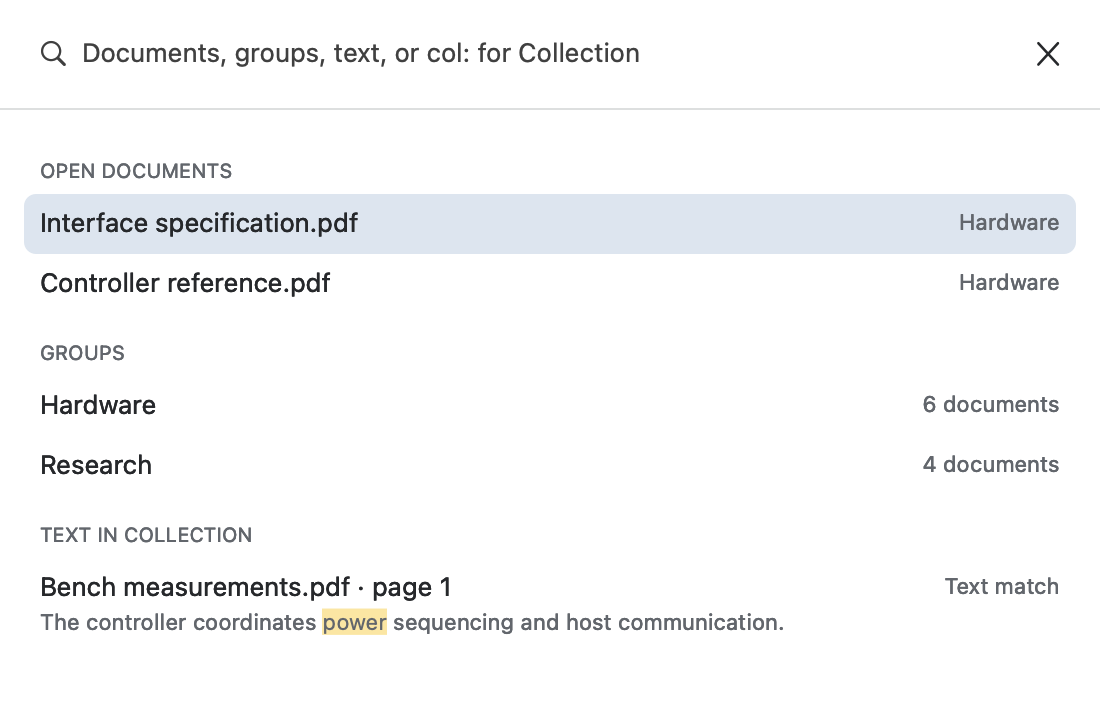
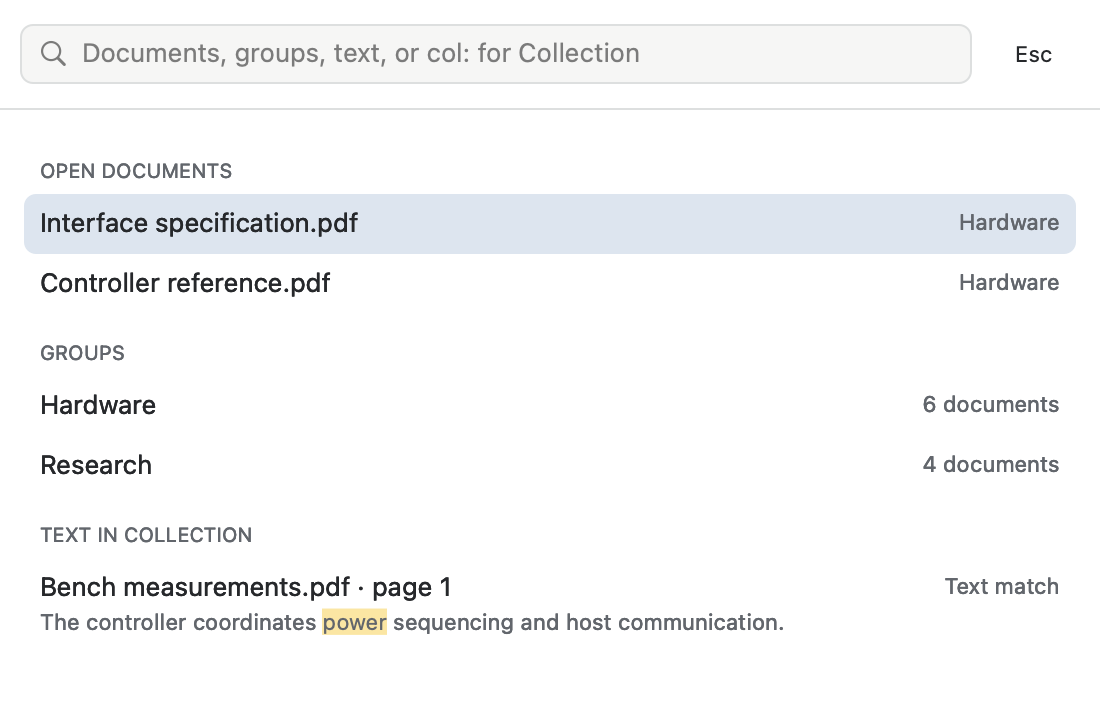
Document ranked native UI critic loops and accepted visual evidence

Changed region(s): [[0.0309, 0.0306, 0.5873, 0.0917], [0.9273, 0.0611, 0.9582, 0.0917]]

diff --git a/portable/docs/proposals/mac-workspace-rethink/critic-loop-ux.md b/portable/docs/proposals/mac-workspace-rethink/critic-loop-ux.md
@@ -1,0 +1,43 @@
+# Native workspace UX critic
+
+## Loop 1 — 1 October 2026
+
+**UX: 7.8/10. Not accepted against the requested >9/10 threshold.**
+
+This independent review uses the interface-design, macOS design guidelines and Rams review criteria. Evidence is the production-view offscreen PNGs in this directory, the approved `reader-workspace.fragment.html`, and the native layout/interaction code. No running user application was launched, quit or captured. Static visual/source review cannot establish a full VoiceOver or live updater result.
+
+The approved intent is a compact reader for many grouped technical documents. The document remains primary; stable tab geometry, direct tools and one restrained navigation panel support it. The native implementation has the broad structure, sensible compact targets, persistent mode identifiers and accessible icon labels. It does not yet reproduce the sidebar's typography, list rhythm or clarity of actions closely enough.
+
+### Ranked improvements
+
+| Rank | Severity | Finding and evidence | Required correction / acceptance evidence |
+|---|---|---|---|
+| 1 | Medium | Filename can omit its extension despite the probe fixture showing one. `SPDFMacWorkspaceChrome.mm` currently prefers `selectedTab.title` to `path.lastPathComponent`. A user-facing title need not be a filename. | Resolve the displayed filename from the document's source identity, including archived previews. Test an extensionless custom title with a real `.pdf` path and an archived temporary payload whose original display filename ends in `.md`. Keep full text available to accessibility and hover help. |
+| 2 | Medium | Collection's Apply is at the bottom after Location (`SPDFMacCollectionWindowSettings.mm`). It changes storage cap only but visually appears to submit all settings. The distance obscures pending changes and violates the user's explicit placement request. | Put Apply and its pending/applied feedback immediately below the storage-cap input, inside the Storage section. Location remains independent. Verify at the smallest supported settings size with custom limit, unlimited and pending changes. |
+| 3 | Medium | The native chapter list feels like an unchanged source list: 13-point text in ~25-point rows, no trailing page numbers, edge-to-edge system selection; the prototype uses 12-point text, 32-point rows, an inset rounded muted selection and trailing page numbers. See `native-reader-light-560.png` and `lean-tabs-sidebar-icons.png`. | Match that list grammar while retaining real nested disclosure, comment wrapping and chapter state. Render selected and unselected chapters, deeply nested outline, long titles and PDF page numbers. Do not fake page numbers for Markdown if unavailable. |
+| 4 | Medium | Sidebar and reading controls are visually smaller and less consistent than the mockup. Sidebar icons are explicitly rendered14×14 with13-point symbol configuration; prototype icons are16×16 inside28-point targets. Toolbar symbols rely on heterogeneous existing defaults. | Use a consistent16-point optical icon system within existing28-point targets, preserve clear enabled/disabled contrast, and keep the Groups divider. Inspect both appearances and the full document-tool row rather than only target rectangles. |
+| 5 | Medium | At560 points, two permanently reserved side columns leave only~235 points of reading width and fit-width at39%. The left panel/table, direct toolbar and real map technically fit, but the reading task becomes a sliver. | Provide an explicit responsive strategy consistent with the prototype's overlay sidebar, without changing saved visibility, map rendering or reading positions. At minimum demonstrate narrow reading with each panel toggled and avoid simultaneous sidebar/map domination; no silent permanent preference changes. |
+| 6 | Minor | Native footer repeats page position on both ends (“Page1 of3 · Zoom155%” and “Page1/3”) whereas the prototype puts source/protection state at left and page position at right. | Remove redundant page text in the left status, retain useful zoom/source information, and surface meaningful Collection protection only when accurate. |
+| 7 | Minor | Native Find results have a heavier, cramped hierarchy than the quiet prototype. This is visible in `native-reader-light-find.png`; repeated bold snippets dominate the metadata and chapter group labels. | Keep actual matching spans emphasized, quiet the rest, align item insets with chapters and use a clear selected result. Preserve multiline comment/search behavior. |
+
+### What already works
+
+- Compact selected tabs, visible group labels and a continuous accent underline form a understandable hierarchy.
+- The group control is separate from document tools. Direct tooltips and accessibility names exist.
+- Top-level panel/reader/map headers align. Real map content is retained; its thumbnail geometry is not scored against the nonfunctional mockup.
+- Collection's document row composition and command search's compact sectioned result hierarchy are substantially closer to the prototype than the chapter list.
+- File rendering, PDF page margins, source content, map thumbnail rendering and the user's chosen document zoom are outside this visual-fidelity score. The prototype's fake paper should not replace those systems.
+
+### Required next loop
+
+Supply fresh native offscreen evidence for a regular reader, selected/nested chapters, narrow reader, Find, Collection Settings with pending storage change, and extensionless-title/original-filename cases. Regrade only changes actually visible or behavior asserted; do not count source-test success alone as improved visual quality. This score does not certify updater safety, which requires the separate release/updater regression suite.
+
+## Read-only implementation notes — responsive panels and filenames
+
+The current reader has no responsive panel collapse: it clamps sidebar width to34% of the window (176-point minimum;216 with search), while the map independently retains its width. At560 points this combines two valid panels into an unusably narrow document area.
+
+The smallest safe alternative to reparenting the sidebar as an overlay is a transient compact-panel priority. Calculate effective reading width after requested panels. If it falls below320 points, show the currently requested navigation panel and temporarily suppress the other. Default to the sidebar because that is where the active navigation/search task occurs. Explicit Show Map gives map priority; Show Sidebar, Find, Groups or History gives sidebar priority. When sufficient space returns, restore both user-requested panels. These are effective layout decisions only; do not change persisted visibility, panel widths, group/document identity or reading positions. The Show Map action must inspect actual visibility: its current implementation toggles preferred visibility, so a map hidden only by layout would otherwise require two clicks to reveal.
+
+Before adding that rule, stop overwriting preferred width during resizing. `restoreSidebarWidth` currently writes its clamped result back to `_sidebarWidth`; `savePersistentState` clamps again using the current window. Keep a local effective width in restoration and sanitize the stored preference independently of current viewport size. Guard temporary panel suppression from the existing sidebar-width persistence path. Explicit divider drags may continue to change the preferred width.
+
+Collection has sufficient filename metadata already. Captured versions contain `filename` (original basename including extension); the document contains `title` and `path` (updated when relinked). Materialized copies are named after `version.filename`, under per-document/per-version directories. The tab's `title`, by contrast, can be changed into an archival status string with the extension removed. The sidebar should use the live path basename, or archived version filename obtained from the already-cached version-info dictionary. Do not instantiate or load Collection from a generic toolbar refresh solely to obtain the display filename. Date/status remain in the version pill, not in the filename.

diff --git a/portable/docs/proposals/mac-workspace-rethink/critic-loop-similarity.md b/portable/docs/proposals/mac-workspace-rethink/critic-loop-similarity.md
@@ -1,0 +1,45 @@
+# Native/prototype similarity review
+
+Independent critic: similarity review, 1 October 2026. This is a visual judgment, not a test pass count. The approved reference is the latest effective CSS and markup in `reader-workspace.fragment.html`, supported by `evidence/lean-tabs-sidebar-icons.png`, `stable-tab-title-fade.png`, and the Collection reference. Obsolete double-panel and oversized-tab designs are excluded.
+
+## Loop 1 — baseline: 7.7/10 overall similarity
+
+**Reader/sidebar: 7.4/10. Tabs/titlebar: 9.0/10. Collection browse: 8.9/10. Command palette: 8.9/10.** The result does not meet the requested >9/10 bar. The native composition moved in the right direction, but the sidebar still visibly belongs to the old app. Reader/sidebar is weighted most heavily because it is the persistent interface.
+
+Actual offscreen AppKit images reviewed: native reader light/dark at1280, narrow560, Find, Markdown; Collection light/dark; command palette light/dark. These were opened as images rather than inferred from code. Native command images are2× raster scale for a550-point palette; apparent raw-image text size is not a defect.
+
+### Ranked improvements
+
+1. **Major — bring sidebar content into the approved visual system.** Native chapter text is13pt in25pt rows, versus12px in32px rows in the final prototype. It appears larger/heavier and more cramped. Native selection is a square, full-width gray band in the narrow image; prototype selection is an inset rounded blue row. Native sidebar has no right-aligned page numbers and no outline summary at its foot. Use12pt regular titles, the approved row rhythm, inset rounded selected/hover surfaces and trailing page metadata. Preserve actual heading text and nesting; do not invent numeric prefixes that are absent from the document. Restore a quiet outline-count footer.
+2. **Medium — restyle the Find result hierarchy.** Native results retain the old group-pill/line decoration, medium-weight snippet above metadata, and bold-only search matches. The reference has small page/chapter metadata above normal-weight context with a yellow match highlight. Reuse the actual search data and navigation; change presentation only. This is visible in `native-reader-light-find.png` against the panel implementation in the reference.
+3. **Medium — fix the sidebar document identity in real data, not just fixtures.** Probe images show extensions, yet `syncWorkspaceChrome` takes `selectedTab.title` ahead of the path filename. A prettified title can therefore omit the extension. Prefer actual source/display filename with extension, including collected documents. Add an extensionless-title/full-path case to the probe rather than trusting its conveniently full title.
+4. **Medium — match sidebar search-field shape and density.** Native field has the older shallow capsule appearance; the reference uses a30px-high rounded rectangle with7px radius,12px insets and a quiet inset surface. Align Chapters and Find field sizes, search icon baselines and focus appearance. Keep a visible rounded focus ring.
+5. **Medium — put Collection Apply immediately below Storage.** The existing production settings builder puts Apply in the final footer below Location. This breaks the user's explicit requested association. Move it into Storage before Location and inspect a native settings image, including a narrow layout and unlimited/capped state. No current native settings image exists in the reviewed evidence.
+6. **Minor — normalize icon optical weight and tint.** Native sidebar symbols appear smaller/fainter than the16px reference icons, and toolbar icons have varied weights. Sidebar source uses13pt SF Symbols. Match the reference's perceived16px optical size and shared primary tint while retaining genuinely disabled controls. Keep the separated workspace/document control groups.
+7. **Minor — match the command palette close affordance.** Native has a bare X where the reference has an Esc label. The overall550-point width,30-point rows, section labels and right-aligned metadata are otherwise close. Use an Esc-labelled accessible close control if seeking literal fidelity. Retain native text-match context, which is useful additional information.
+8. **Minor — Collection chrome details.** Browse layout is close:125-point navigation,65×88 preview,14-point result gaps and action buttons match. Real thumbnails should remain real; they need only the reference's subtle boundary in light mode so white pages remain visible. Native header has a larger leading offset for window traffic lights; this is a platform accommodation, not a reason to draw fake traffic lights inside content.
+
+### Explicit exclusions
+
+- Document content, PDF page proportions, original document theme, and preserved zoom/margins are not chrome similarity defects. Do not shrink pages or change Markdown margins to imitate a fabricated page in the mockup.
+- The native working map must remain a real map. Its thumbnail width, rendering and viewport rectangle are deliberately not scored against the mockup's numbered decorative rail.
+- Native macOS traffic lights sit outside the offscreen content capture; their absence is not a defect.
+- History availability must be checked using a captured document fixture. The baseline uncaptured fixture has no History button, so this image alone cannot establish that History is missing in production.
+
+### Next-loop evidence required
+
+Fresh reader light/dark, Chapters with selected row and page metadata, Find with highlighted contexts, Markdown filename, real History, Collection Settings showing Apply directly under Storage, and command palette. Verify a real production-built view, not a static replica. A source-only change or passing behavioral test cannot raise this visual grade.
+
+## Implementation follow-through before loop 2
+
+The parent assigned the sidebar changes back to this reviewer after the baseline report. This reviewer therefore does not claim independence for its later assessment of those specific components; the separate UX critic should cross-check them.
+
+- Extracted legacy Find cell rendering from the coordinator into `SPDFMacSidebarPresentation`. Its pure view builders preserve result identity/actions while putting muted metadata above regular two-line context, retaining highlighted query ranges and full context in tooltips.
+- Chapters retain actual heading text and disclosure nesting; titles use12pt regular type in32pt rows, with right-aligned one-based page metadata. The shared row view draws an inset rounded selection in the same theme tokens as the reference.
+- Added the total-outline summary accessor for the parent-owned footer; filtering and collapsing do not rewrite the document's total heading count.
+- First integrated visual rerender exposed clipped right selection corners and missing trailing page labels at narrow widths. The old sizing routine updated only the column width, leaving the table document view wider than its viewport. The extracted sizing helper now keeps both widths synchronized, disables the conflicting column autoresizer, and avoids comment-height work when the viewport is unchanged.
+- Focused presentation tests instantiate real offscreen AppKit cells at176/240/400pt and verify metadata/context order, text insets, wrapping, safe highlight ranges and unchanged font metrics. Table resizing300→176→240 verifies viewport/document/column agreement. `mac-sidebar-presentation-tests` and `mac-sidebar-outline-tests` exit0. These checks do not launch or capture the user's app.
+
+### Reference correction
+
+The first critique incorrectly read the earlier36px chapter-row and32px field rules without applying the later overrides at lines139–141. The effective contract is32px rows and30px fields; implementation and this report now use those values. This correction does not change the baseline conclusion that the native25pt rows and old field treatment were visibly different, but it prevents introducing new spacing drift while fixing them.

diff --git a/portable/docs/proposals/mac-workspace-rethink/critic-loop-independent.md b/portable/docs/proposals/mac-workspace-rethink/critic-loop-independent.md
@@ -1,0 +1,55 @@
+# Independent native workspace review
+
+Fresh reviewer, 1 October 2026. This reviewer made no production changes. The interface-design skill informed the review. Scores are human-style visual/interaction judgments, not automated similarity metrics or rewards for passing tests.
+
+## Round 2: similarity 8.9/10; UX 8.8/10
+
+The persistent chrome is substantially closer to the approved layout. This round does **not** yet pass the requested greater-than-9 threshold.
+
+Evidence actually opened: `/tmp/sz-workspace-loop2/reader-light-1280.png`, dark equivalent, light 560 and 880, light/dark Find, light Markdown and version states; `/tmp/collection-polish-pdf-NSAppearanceNameAqua.png` and DarkAqua; Collection settings custom-cap light/dark; `/tmp/palette-polish/NSAppearanceNameAqua.png` and DarkAqua. Reference: latest effective rules in `reader-workspace.fragment.html`, `evidence/lean-tabs-sidebar-icons.png`, and Collection reference. Native images are Retina renders, so dimensions were interpreted in points rather than treating 2× pixels as oversized UI.
+
+### Ranked remaining improvements
+
+1. **Medium — finish outline row sizing.** Selected chapter rows have rounded left corners but are visibly clipped at the sidebar's right edge in the 1280, 880 and 560 captures. The 560 capture also loses all trailing page numbers. The right-hand geometry appears tied to a wider stale table/column extent. Resize the actual outline row/column with the visible panel and preserve both the inset right edge and trailing metadata.
+2. **Medium — make source status truthful in older/missing states.** The version capture shows “Older version — … · Original missing” above the document while the footer says “Original file.” These are contradictory explanations of what the user is reading. Derive the footer from actual original/archive/missing identity and verify both an older collected version and missing original.
+3. **Verification gap — supply the real History state.** The fixture currently has no History mode in the normal PDF capture; that is reasonable for a document without saved history. However, the request covers the full layout. A real captured-document fixture must show History's rows, Latest state, and actions before the entire interface can be accepted.
+4. **Minor — settle the PDF render before final evidence.** The dark1280 image has blank paper and thumbnails, while dark Find contains rendered text. This appears to be capture timing rather than a chrome issue, but the published evidence should not show a transient unrendered document. It is excluded from the chrome score, not ignored as a release artifact.
+
+### Improvements verified this round
+
+- The actual sidebar includes `.pdf` and `.md` while tab labels omit them.
+- The chapter hierarchy now has compact regular-size text, muted page numbers, rounded blue selection, and an outline summary.
+- Navigation icons have consistent optical size and a separate Groups area. Reading tools are directly exposed.
+- Find uses quiet page metadata and highlighted context, rather than the earlier heavy result decoration.
+- The narrow reader suppresses the map rather than leaving the document between two dominating columns.
+- Collection uses the reference's narrow navigation, bounded previews, metadata/context beside previews, and restrained actions. Apply is directly beneath the storage control before cleanup policy and Location.
+- Command search has the compact section/metadata grammar and Esc affordance.
+
+### Scope and limits
+
+Document content, PDF/Markdown margins, user zoom and the working native map renderer are intentionally excluded from similarity to the prototype's fabricated paper/map. No user app was launched, quit or captured. UX assessment covers the supplied production-view renders and inspected code; it is not a live VoiceOver, updater, drag/drop or full end-to-end certification.
+
+## Final round: similarity 9.2/10; UX 9.1/10
+
+**Accepted for the requested chrome review: both scores are greater than 9/10. No major or medium chrome findings remain in the reviewed states.** These scores are bounded visual/UX judgments, not a claim of pixel identity or complete application certification.
+
+Fresh evidence opened: `/tmp/sz-workspace-final/reader-light-1280.png`, dark1280, light560, light/dark History, and light version. The Collection/Settings and command images from the preceding round remain applicable because those accepted surfaces were unchanged. The full native probe log reports `SPDFMacWorkspaceProbe passed`; its layout and state assertions supplement the visual judgment rather than substitute for it.
+
+### Why the grade increased
+
+- The actual chapter surface now ends inside the panel with both rounded corners visible. Page numbers remain visible at560 points. The row cadence now matches the final32-point reference override and fields the final30-point override.
+- The older/missing document's footer correctly says “Saved version · Read-only” alongside its missing-original pill. It no longer claims to show the original.
+- The real History panel contains multiple saved versions, a clear Latest pill, date/time/reason metadata and unobstructed Compare/Keep/Actions controls. It uses the same direct icon navigation and filename identity as the other modes.
+- Light/dark chrome, compact titlebar groups, aligned headers, separate Groups/document controls, inset selection, sidebar filename, Find context and Collection actions now form a coherent rendition of the approved system.
+- The native narrow state gives reading space priority without silently discarding a panel preference; this is a reasonable native adaptation of the reference's compact response.
+
+### Ranked minor notes
+
+1. **Minor, visual continuity — History uses a somewhat wider panel and three metadata lines.** The compact reference keeps the usual panel width and groups date/time more tightly. The native design remains readable and usable, including long dates. Reducing the expansion without truncation would improve continuity but is not needed to meet the accepted score.
+2. **Minor, native optical differences — SF Symbols and the native fit selector differ slightly from Lucide/CSS.** Their placement, target size and hierarchy now match. Replacing functional native controls only to imitate tiny glyph differences would add risk for little user benefit.
+
+The final scores specifically cover the reviewed reader chrome, Collection browse/settings and command surfaces. Updater integrity, persistence, native input, asynchronous rendering and performance still depend on the separate regression/release checks. No real user window was launched, quit or captured during this review.
+
+### Final evidence recheck
+
+Reopened the exact final files `/tmp/sz-workspace-final/reader-dark-1280.png` and `/tmp/sz-workspace-final/reader-dark-history.png` using `view_image` with original detail. Both now visibly contain the PDF title/body and all three populated map thumbnails. The earlier blank-capture caveat is resolved and has been removed from the remaining findings. Final scores remain similarity9.2/10 and UX9.1/10.

diff --git a/portable/docs/journals/collection-implementation/action-journal.md b/portable/docs/journals/collection-implementation/action-journal.md
@@ -561,3 +561,22 @@ Follow-up proposal correction: grouped document tabs are fused with the title ba
 The user rejected the component-focused balance pass. A new whole-interface study separates workspace navigation, current-document tasks, reading controls and source/version status. The interactive proposal exercises a synthetic 72-document workspace, search, PDF/Markdown switching, History, comparison and the Collection companion at full and compact sizes. An independent critic found state and search errors in the prototype; these were corrected and targeted browser workflows were repeated. This remains a proposal, not a shipped redesign. [Decision, evidence and limitations](../../proposals/mac-workspace-rethink/decision-and-validation.md).
 
 A separate agent reproduced and fixed the reported Chapters/Comments gray-state bug: workspace/history routes could return before refreshing the active document's navigation availability. The refresh now precedes those routes. Focused regressions, syntax checks and the native build pass. The signed candidate matches `dist/ShenzhenPDF.app`; the previous bundle is preserved and the user's running app was not restarted. [Bug audit and packaging](../../proposals/mac-workspace-rethink/bug-audit.md).
+
+
+## 1 October — native/mockup similarity correction loops
+
+The user's rejection was warranted: the first native pass retained old sidebar typography, row density and search-field chrome. Two independent baseline reviews rated it 7.7/10 similarity and 7.8/10 UX. We used the approved prototype's **last effective CSS overrides** as the contract. An early audit incorrectly read earlier 36-point rows; the final implementation follows the later 32-point override and 30-point fields. The audit records the correction.
+
+The work was divided between native sidebar presentation, Collection settings/palette polish, responsive layout, and parent integration. A fresh critic who did not implement the reader changes then reviewed actual offscreen AppKit renders. Its first pass (8.9 similarity / 8.8 UX) found two specific issues: table width clipping hid page numbers and the right selection corners, and an archived document could still have an “Original file” footer. Both were fixed. The final independent grades are **9.2/10 similarity and 9.1/10 UX**, with no major or medium interface findings remaining.
+
+User-visible corrections: filenames including extensions in the left panel; compact regular chapter rows, right page labels and rounded blue selection; metadata-first Find results with yellow term highlights; rounded search controls and consistent icon weight; accurate source status with no duplicate pagination; Apply immediately beneath Collection's storage cap; Esc in Command-K; and a quiet boundary around real Collection thumbnails. Narrow windows retain reading space while keeping requested panel widths and visibility. The last compact-panel choice is stored in YAML.
+
+Verification was strengthened where the previous fixtures were misleading. Reader tab titles now intentionally omit extensions; headers must still show the real full filename. Real Collection captures produce two versions for the History render. The probe asserts native clip/table bounds and exercises shrink, map reveal, sidebar reveal and grow restoration. It writes native view renders without ordering any window or touching user configuration. The full Markdown/Collection UI suite and focused regression matrix passed, including updater (32 cases), release workflow (56 cases), launch laziness, YAML persistence, tab lifecycle and reading-theme/minimap checks. No live update or release publication was performed.
+
+![Corrected native reader](../../proposals/mac-workspace-rethink/evidence/native-reader-light-1280.png)
+![Readable compact sidebar and preserved reader space](../../proposals/mac-workspace-rethink/evidence/native-reader-light-560.png)
+![Find context hierarchy](../../proposals/mac-workspace-rethink/evidence/native-reader-light-find.png)
+![Actual Collection history](../../proposals/mac-workspace-rethink/evidence/native-reader-light-history.png)
+![Apply belongs to the storage cap](../../proposals/mac-workspace-rethink/evidence/native-collection-settings-light.png)
+
+The full ranked review trail and test methodology are in [native verification](../../proposals/mac-workspace-rethink/native-verification.md). Scores describe the interface under the tested states; real PDF content, zoom and minimap rendering are deliberately preserved rather than imitated from the mockup.

diff --git a/portable/docs/proposals/mac-workspace-rethink/native-verification.md b/portable/docs/proposals/mac-workspace-rethink/native-verification.md
@@ -65,3 +65,21 @@ These are actual AppKit content views captured offscreen. The PDF fixture refill
 ![Older version with missing original at narrow width](evidence/native-reader-light-version.png)
 
 ![Markdown with direct text-size controls](evidence/native-reader-light-markdown.png)
+
+
+## Critic correction loops, 1 October 2026
+
+Three review rounds now supersede the baseline above. Baseline critics scored similarity **7.7/10** and UX **7.8/10**. The first correction pass reached **8.9/10 / 8.8/10** under a fresh independent critic. That review found clipped outline selection/page numbers and an incorrect original-file footer on saved versions. After correction, the independent final review scores **9.2/10 similarity and 9.1/10 UX**, with no major or medium interface findings remaining. These are critic judgments about the native chrome, not a numeric pixel comparison or a claim of identical document rendering. See [ranked independent review](critic-loop-independent.md), [initial similarity findings](critic-loop-similarity.md), and [initial UX findings](critic-loop-ux.md).
+
+The accepted native details now include 32-point outline rows, regular 12-point text, right-aligned page numbers, inset rounded selection, a chapter summary, 30-point rounded search fields, consistent direct icons, metadata above highlighted Find context, filename extensions sourced from real paths, and a non-contradictory saved-version footer. Collection Apply is directly below Storage cap, before help and Location. The command palette uses an Esc close affordance; Collection thumbnails retain a subtle actual-page boundary.
+
+The full production-window probe now seeds extensionless tab titles, so it can detect the real filename bug rather than passing on conveniently full titles. It checks sidebar/table clipping, actual narrow-window map/sidebar toggles, preserved preferred widths, real two-version Collection history, PDF/Markdown rendering hosts, and updater menu routing. PDFKit fixtures refill document and map images after native cache invalidation; the probe intentionally does not start the app render service. All windows remain offscreen. The final probe exited 0, as did the full Markdown/Collection UI runner and the focused regression matrix (including 32 updater cases and 56 release-workflow cases).
+
+Compact windows temporarily show one side panel when both would leave less than 320 points for reading. The last explicitly requested panel wins, both return when space allows, and preferred widths, visibility and compact-panel choice persist through YAML. This changes chrome layout only; document margins and map behavior remain intact.
+
+![Actual History with captured versions and Latest badge](evidence/native-reader-light-history.png)
+![Collection Settings: Apply directly under the storage cap](evidence/native-collection-settings-light.png)
+![Dark Collection Settings](evidence/native-collection-settings-dark.png)
+
+
+The final performance follow-up makes repeated panel-policy evaluation a no-op for raw layout/render setters. A 1,000-request counter test verifies this, and the complete production-window probe passed again after the optimization (`/tmp/sz-workspace-validated.log`). Source-size ratcheting also passed; the main coordinator is reduced from15,730 to15,559 lines through the focused sidebar extraction.
